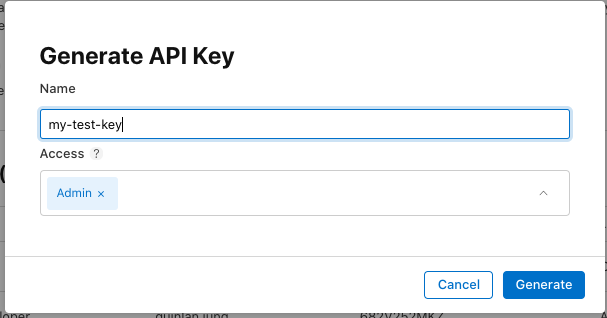
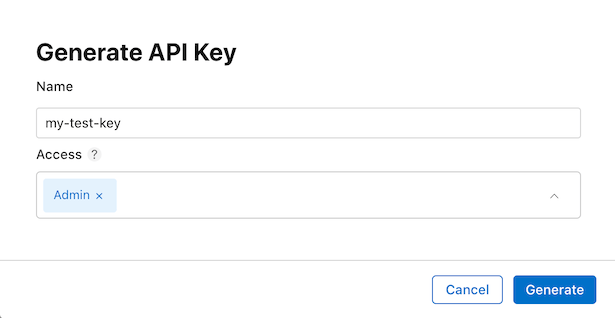
Update outdated info in Creating an App Store Connect API Key guide (#157)
* Update outdated info in Creating an App Store Connect API Key guide

* Optimize images

Changed region(s): [[0.0593, 0.2547, 0.9489, 0.7075], [0.0, 0.0, 1.0, 1.0], [0.0593, 0.1132, 0.3855, 0.2264]]

diff --git a/creating-asc-api-key.md b/creating-asc-api-key.md
@@ -1,8 +1,8 @@
-# Creating an App Store Connect Api Key
+# Creating an App Store Connect API Key
 
-If you’d like to submit your iOS app to the Apple App Store with `eas submit`, you'll need an App Store Connect Api key **or** an App Specific Password. This page will guide you through the process of creating an App Store Connect Api key. 
+If you’d like to submit your iOS app to the Apple App Store with `eas submit`, you'll need an App Store Connect API key **or** an App Specific Password. This page will guide you through the process of creating an App Store Connect API key.
 
-1. Open the [App Store Connect Portal](https://appstoreconnect.apple.com/access/users) and go to the **Keys** tab under the Users and Access section. We recommend browsing this UI in Safari as there have been known issues in other browsers.
+1. Open the [App Store Connect Portal](https://appstoreconnect.apple.com/access/users) and go to the **Integrations** tab under the Users and Access section.
 
 [<img src="./assets/creating-asc-api-key/01-open-app-store-connect-portal.png" width="800" />](./assets/creating-asc-api-key/01-open-app-store-connect-portal.png)
 
@@ -14,7 +14,7 @@ If you’d like to submit your iOS app to the Apple App Store with `eas submit`,
 
 [<img src="./assets/creating-asc-api-key/03-key-fields.png" width="800" />](./assets/creating-asc-api-key/03-key-fields.png)
 
-4. Click the **Download API Key** button to download the .p8 file.
+4. Click the **Download** button to download the **.p8** file.
 
 [<img src="./assets/creating-asc-api-key/04-download-key.png" width="800" />](./assets/creating-asc-api-key/04-download-key.png)
 
@@ -23,8 +23,8 @@ If you’d like to submit your iOS app to the Apple App Store with `eas submit`,
 - Key ID
 - Issuer ID
 
-These can be found in the red boxes in the picture below:
+These can be found in the red boxes in the image below:
 
 [<img src="./assets/creating-asc-api-key/05-other-info.png" width="800" />](./assets/creating-asc-api-key/05-other-info.png)
 
-6. That's all! From now on, you can use the generated App Store Api key to submit your app with `eas submit`.
+6. That's all! From now on, you can use the generated App Store API key to submit your app with `eas submit`.
